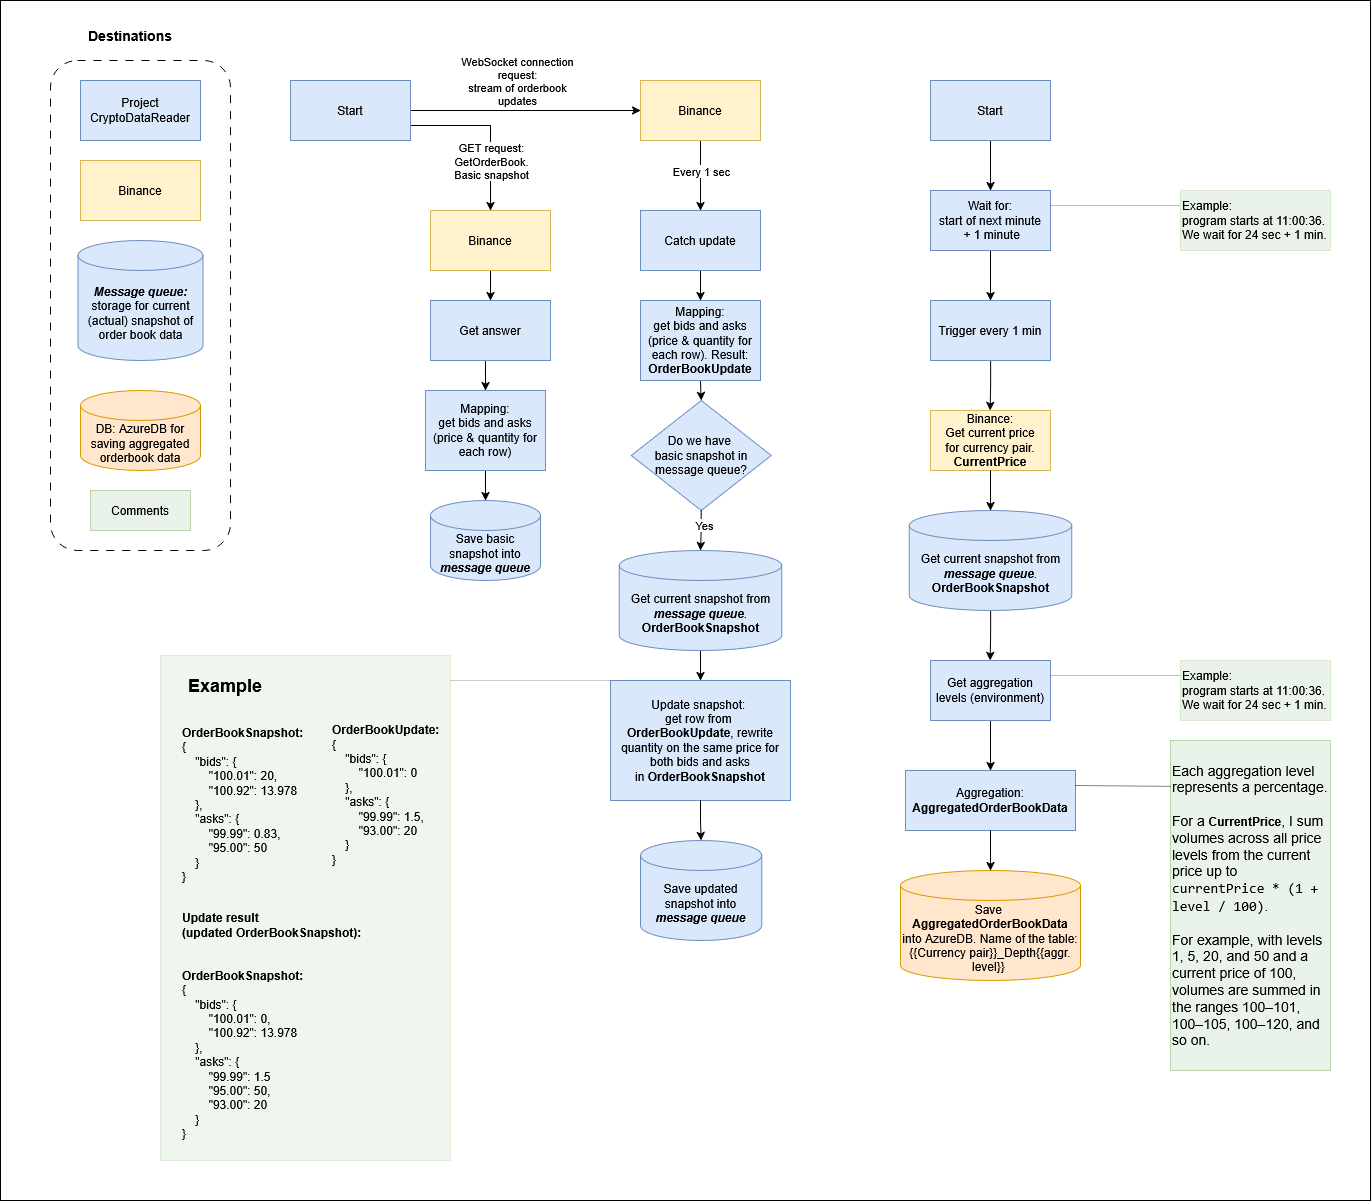
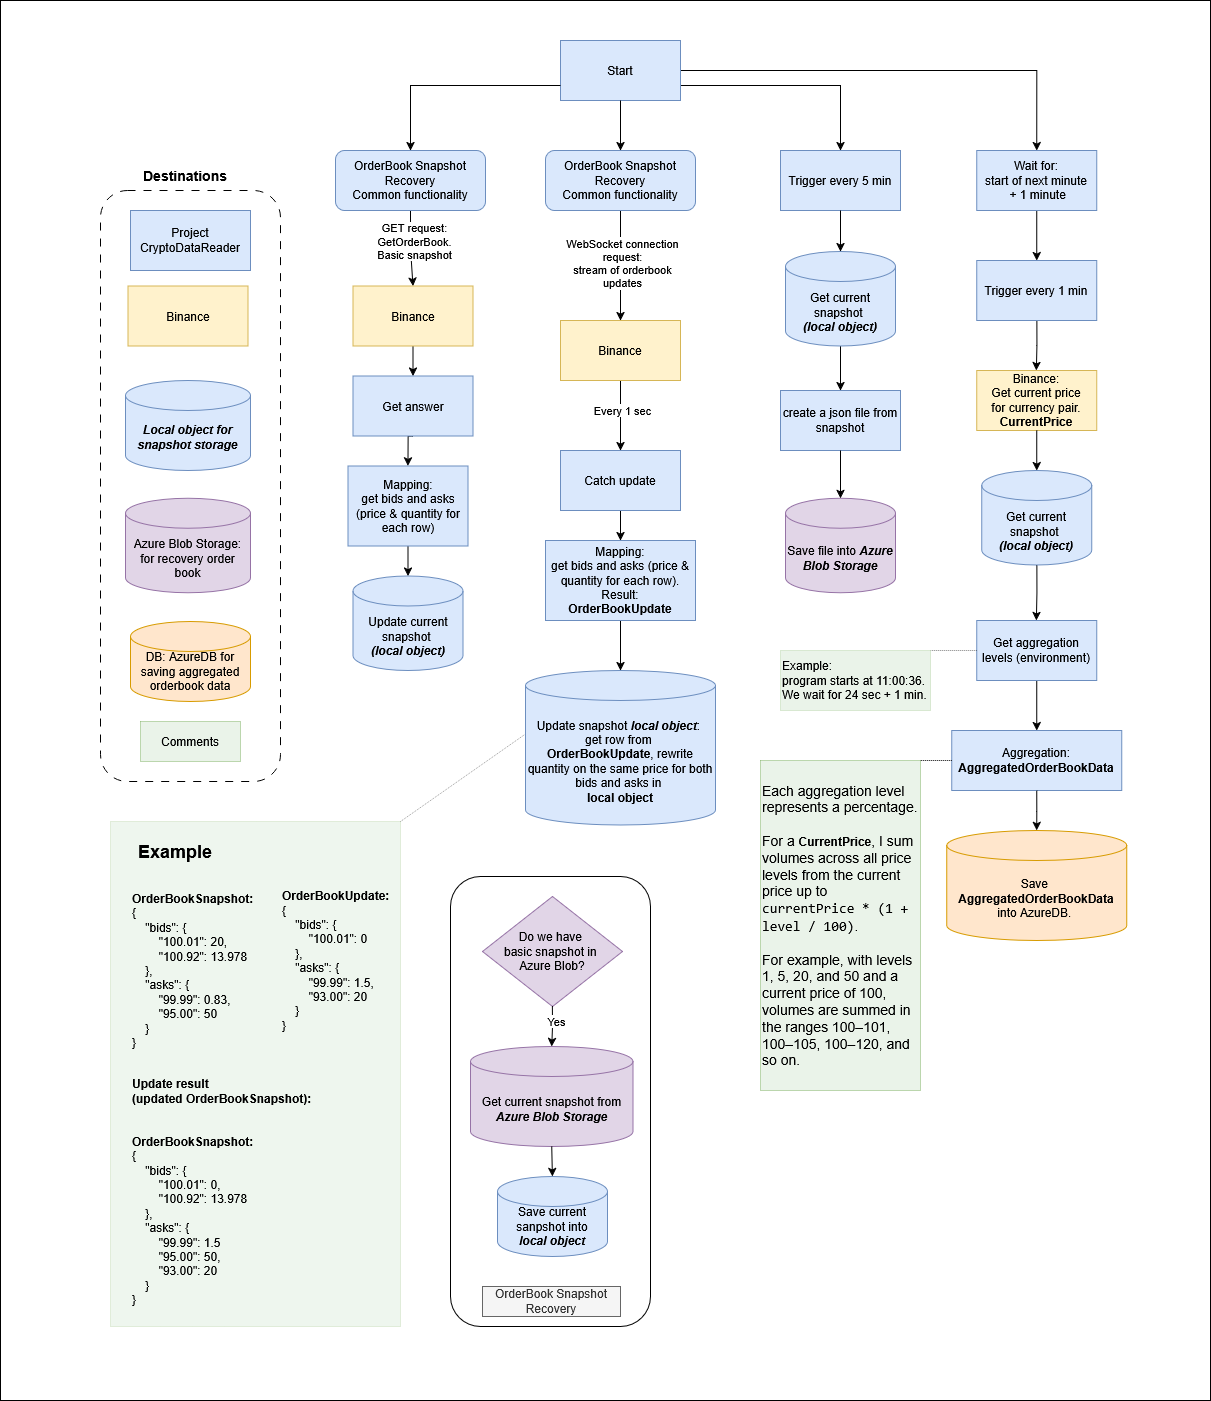
update docs & readme

Changed region(s): [[0.2139, 0.0, 0.9777, 0.955], [0.0306, 0.0, 0.275, 0.9242], [0.2444, 0.5853, 0.3361, 0.7086]]

diff --git a/README.md b/README.md
@@ -34,16 +34,19 @@ In short, the system collects aggregated order book data from a cryptocurrency e
 
 ### 2.2. Features
 
- - **Feature 1. Order Book Data Collection & Storage**
-The system retrieves real-time order book data for selected cryptocurrency pairs from Binance, aggregates it according to predefined rules, and stores the processed market data in a database for further analysis and trading.
+ - **Feature 1. Initial Order Book Snapshot**
+The system receives the current order book snapshot from Binance and saves it into a local snapshot object that contains the current market state.
 
 ![](docs/features/Feature_1_Data_Collection_Storage.png)
 
- - **Feature 2. Strategy Execution & Trading Engine**
-The system provides access to historical aggregated market data for a selected time range, order book depth, and trading pair. This enables the development and backtesting of trading strategies in Python, as well as real-time strategy execution with automated order placement and integrated risk management mechanisms such as Stop Loss, Take Profit, and Grid Trading.
+ - **Feature 2. Real-Time Order Book Updates**
+The system connects to the Binance WebSocket stream, receives order book updates every second, and continuously updates the local snapshot object with the latest market changes.
 
- - **Feature 3. User Notifications**
-The system notifies users about changes in trading positions and order states in real time via Telegram.
+ - **Feature 3. Snapshot Backup Storage**
+The system periodically takes the current snapshot from the local object and saves it into Azure Blob Storage for backup and recovery purposes.
+
+ - **Feature 4. Market Data Aggregation**
+The system aggregates market data every minute based on the current snapshot and stores the aggregated results in Azure Database for further analysis and trading strategies.
 
 ## 3. Architecture
 
